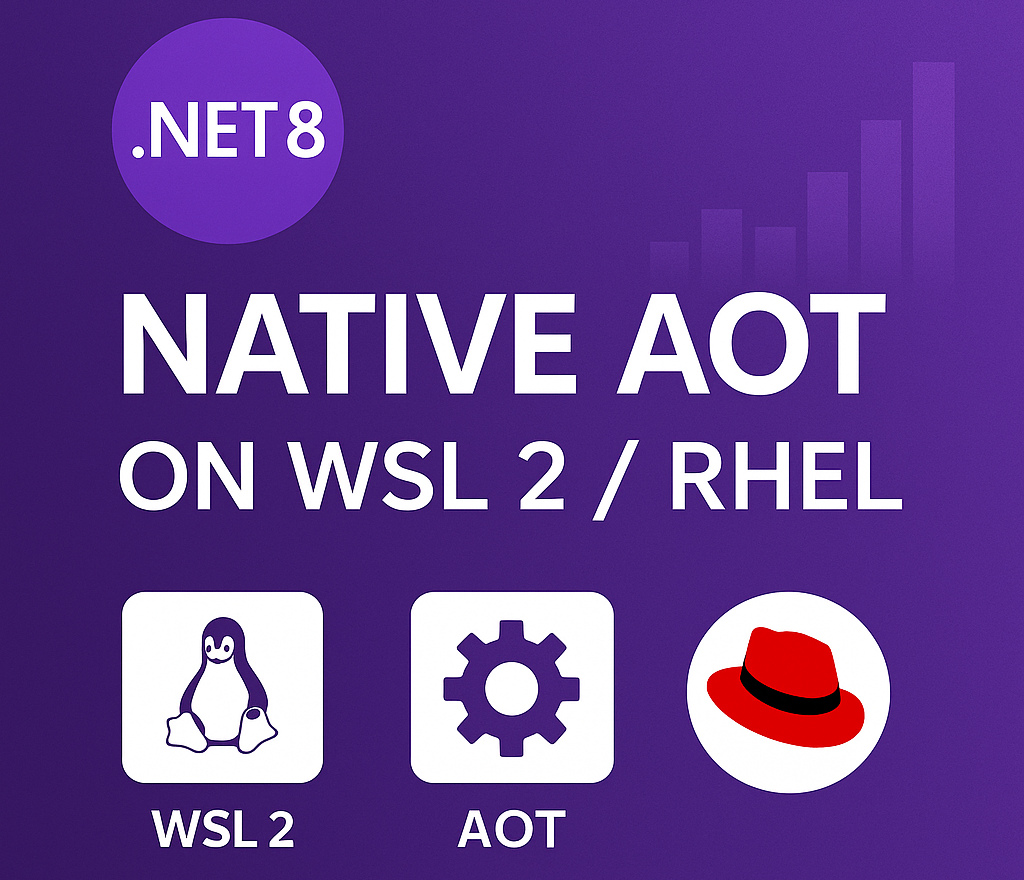
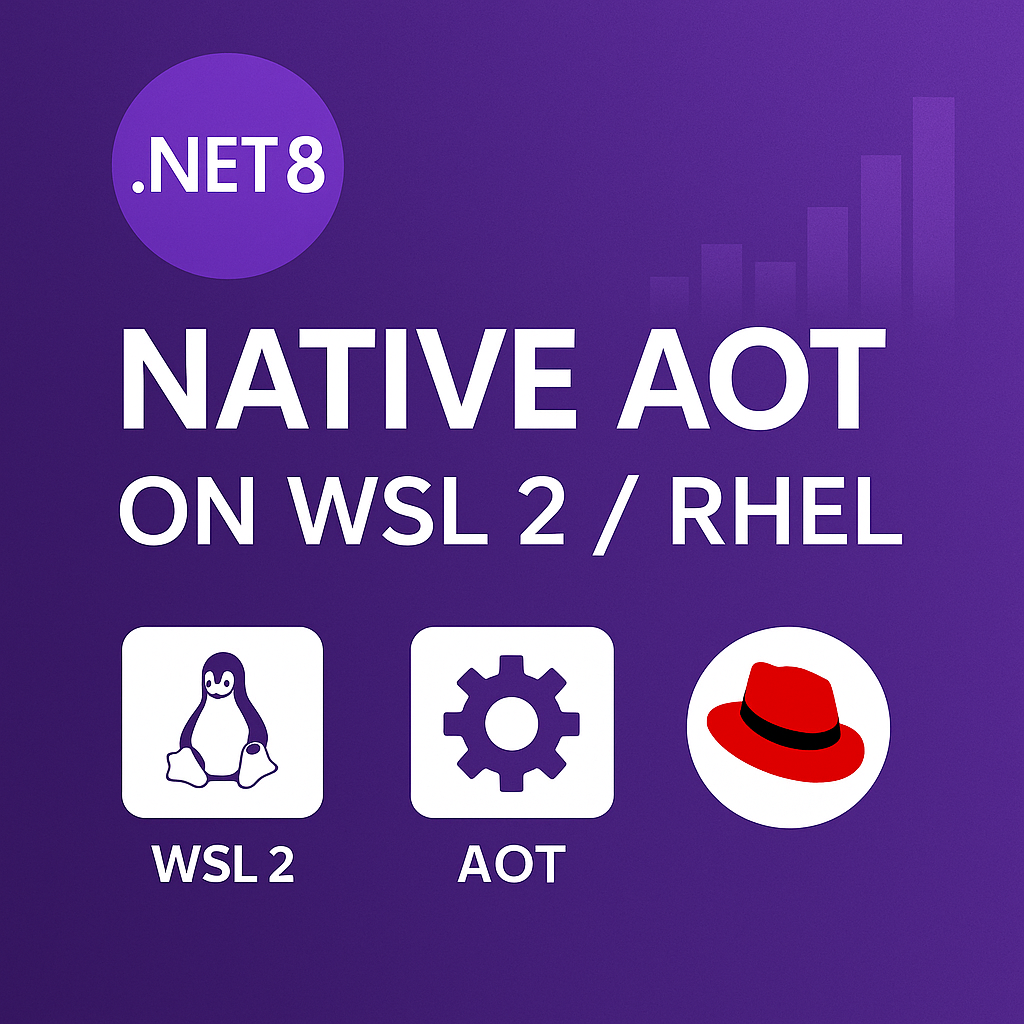
썸네임 이미지 수정, 포스트 타이틀 수정

diff --git a/source/_posts/202507-dot-net-aot-wsl2.md b/source/_posts/202507-dot-net-aot-wsl2.md
@@ -8,7 +8,7 @@ index_img: img/202507-1650/dotnet-aot-wsl2-rhel.png
 keywords: [.NET Native AOT, WSL2 테스트, 크로스 플랫폼 배포, .NET 8 성능 최적화, Linux .NET 배포, RHEL 호환성, 컨테이너 배포, 서버리스 .NET]
 ---
 
-# .NET Native AOT로 빌드한 애플리케이션을 WSL2에서 테스트하기
+# .NET Native AOT 빌드 및 WSL2 테스트 가이드 - 크로스 플랫폼 배포 최적화
 
 ## 개요
 
